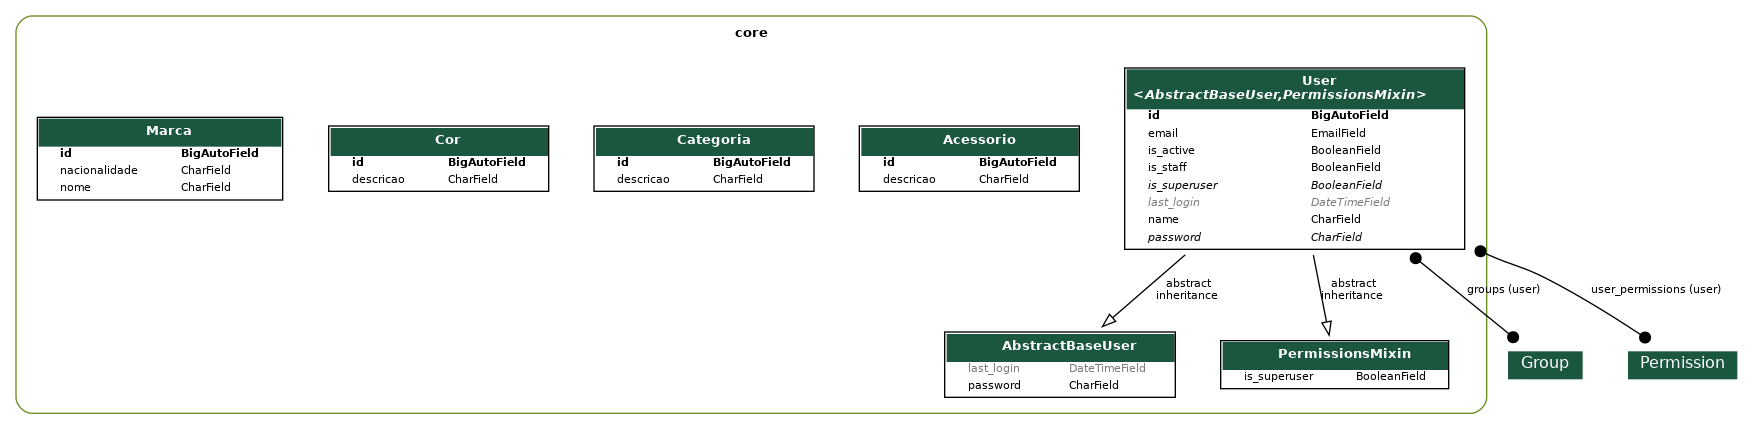
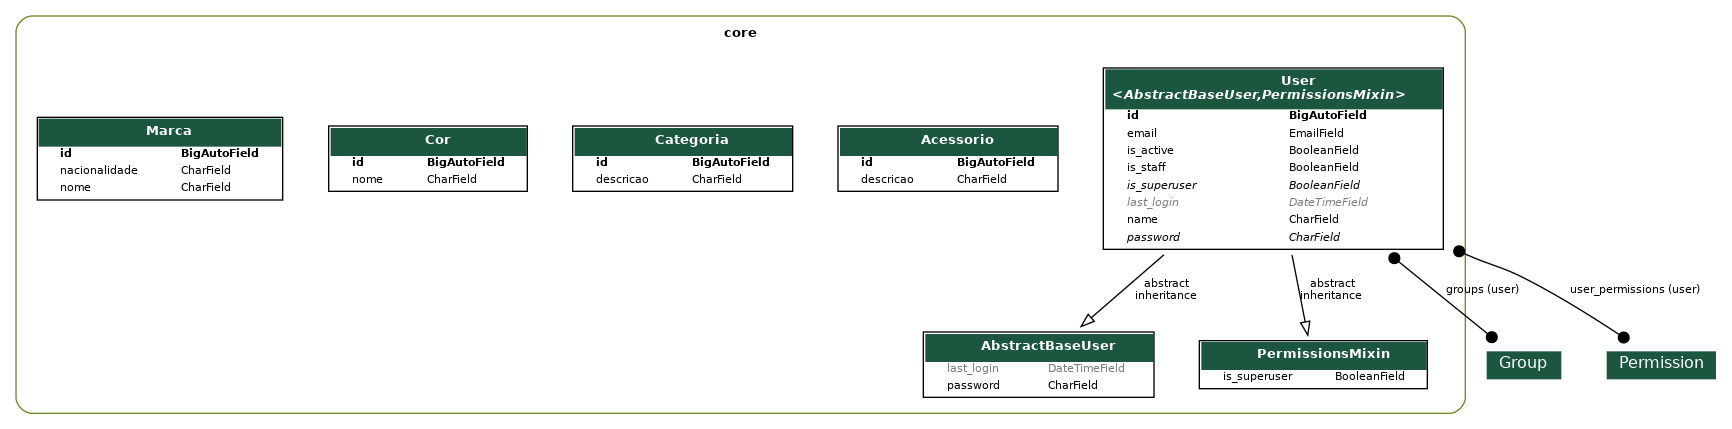
alterações na migraçao

diff --git a/core/migrations/0006_alter_cor_options_rename_descricao_cor_nome.py b/core/migrations/0006_alter_cor_options_rename_descricao_cor_nome.py
@@ -1,0 +1,22 @@
+# Generated by Django 5.0.2 on 2024-04-04 12:04
+
+from django.db import migrations
+
+
+class Migration(migrations.Migration):
+
+    dependencies = [
+        ("core", "0005_marca"),
+    ]
+
+    operations = [
+        migrations.AlterModelOptions(
+            name="cor",
+            options={"verbose_name": "Cor", "verbose_name_plural": "Cores"},
+        ),
+        migrations.RenameField(
+            model_name="cor",
+            old_name="descricao",
+            new_name="nome",
+        ),
+    ]

diff --git a/app/urls.py b/app/urls.py
@@ -20,7 +20,7 @@ router = DefaultRouter()
 router.register(r"users", UserViewSet, basename="users")
 router.register(r"acessorios", AcessorioViewSet)
 router.register(r"categorias", CategoriaViewSet)
-router.register(r"cores", CorViewSet)
+router.register(r"cores", CorViewSet, )
 router.register(r"marcas", MarcaViewSet,) 
 
 urlpatterns = [

diff --git a/core/models/cor.py b/core/models/cor.py
@@ -1,4 +1,4 @@
-from django.db import models 
+from django.db import models
 
 class Cor(models.Model):
     nome = models.CharField(max_length=100)
@@ -6,5 +6,5 @@ class Cor(models.Model):
         verbose_name = "Cor"
         verbose_name_plural = "Cores"
 
-def __str__(self):
+    def __str__(self):
         return self.nome

diff --git a/core/views/cor.py b/core/views/cor.py
@@ -3,7 +3,6 @@ from rest_framework.viewsets import ModelViewSet
 from core.models import Cor
 from core.serializers import CorSerializer
 
-
 class CorViewSet(ModelViewSet):
     queryset = Cor.objects.all()
     serializer_class = CorSerializer

diff --git a/core/serializers/cor.py b/core/serializers/cor.py
@@ -2,7 +2,6 @@ from rest_framework.serializers import ModelSerializer
 
 from core.models import Cor
 
-
 class CorSerializer(ModelSerializer):
     class Meta:
         model = Cor
